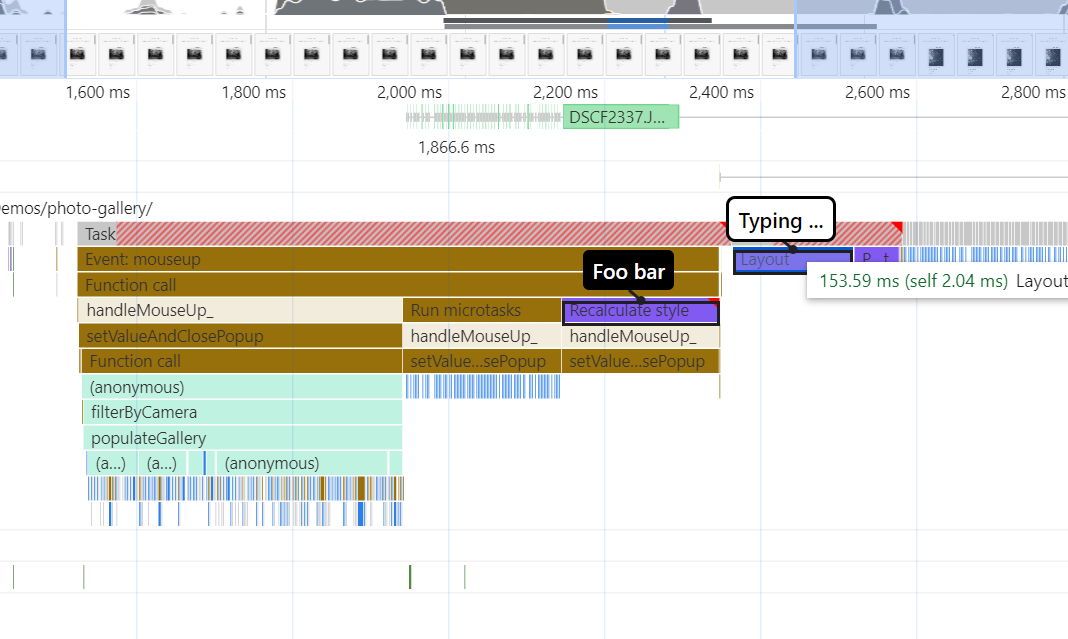
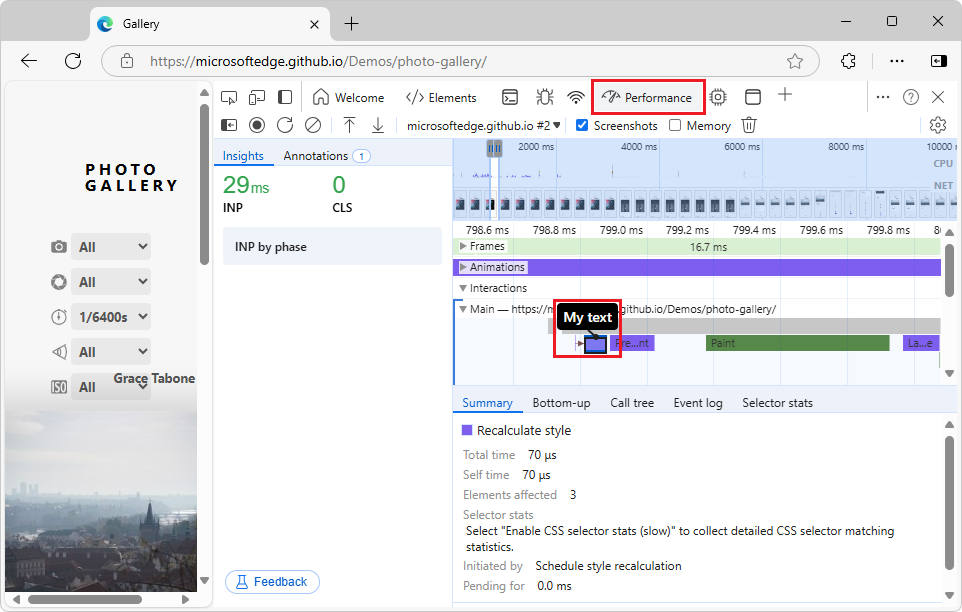
incorp rvw cmts

diff --git a/microsoft-edge/devtools-guide-chromium/experimental-features/index.md b/microsoft-edge/devtools-guide-chromium/experimental-features/index.md
@@ -64,7 +64,6 @@ The following experimental features are turned on by default. You can use these 
 * [Show issues in Elements](#show-issues-in-elements)
 * [Open source files in Visual Studio Code](#open-source-files-in-visual-studio-code)
 <!-- Deprecate CSS <length> authoring tool in the Styles tab - non-Edge -->
-<!-- Floating entry points for the AI assistance panel - non-Edge -->
 
 **Turned on by default in Microsoft Edge Stable 131:**
 * [Redesign of the filter bar in the Network panel](#redesign-of-the-filter-bar-in-the-network-panel)
@@ -76,7 +75,6 @@ The following experimental features are turned on by default. You can use these 
 * [Show issues in Elements](#show-issues-in-elements)
 * [Open source files in Visual Studio Code](#open-source-files-in-visual-studio-code)
 <!-- Deprecate CSS <length> authoring tool in the Styles tab - non-Edge -->
-<!-- Floating entry points for the AI assistance panel - non-Edge -->
 
 
 <!-- ====================================================================== -->
@@ -334,6 +332,7 @@ Status:
 <!-- ====================================================================== -->
 ## Deprecate CSS \<length\> authoring tool in the Styles tab
 <!-- checkbox has no "(?)" link pointing to this anchor wording -->
+<!-- todo: delete section if/when checkbox removed -->
 
 Not applicable for Microsoft Edge.  Selecting or clearing this checkbox has no effect.
 
@@ -500,9 +499,9 @@ Status:
 
 _new as of Microsoft Edge Canary 129_
 
-Annotations in the **Performance** tool allow you to double-click on any event that's displayed in the main area of a performance recording, and then add a custom label on (above) that event.
+Annotations in the **Performance** tool allow you to double-click any event that's displayed in the main area of a performance recording, and then add a custom label on (above) that event:
 
-<!-- ![An annotation in the Performance tool](./index-images/performance-panel-enable-annotations.png) -->
+![An annotation on an event in the Performance tool](./index-images/performance-panel-enable-annotations.png)
 
 See also:
 * [Introduction to the Performance tool](../evaluate-performance/index.md)
@@ -580,9 +579,8 @@ Status:
 
 
 <!-- ====================================================================== -->
-## Floating entry points for the AI assistance panel
-
-In Microsoft Edge, this checkbox has no effect.<!-- non-Edge -->
+<!-- ## Floating entry points for the AI assistance panel -->
+<!-- non-Edge; checkbox has no effect, being removed -->
 
 
 <!-- ====================================================================== -->
@@ -624,12 +622,8 @@ Status:
 
 _new as of Microsoft Edge Canary 133_
 
-In the **Performance** tool, adds a **Switch to an alternative timeline navigation** control inside the **Help/ Keyboard shortcuts** popup.  The switch lets you choose how the main chart reacts to mouse wheel events:
-* The mouse wheel zooms the chart in and out.
-* The mouse wheel pans the chart left and right.
-<!-- todo: when able to access UI, update desc & png -->
-
-<!-- ![Alternative timeline navigation option](./index-images/alt-timeline-nav.png) -->
+In the **Performance** tool, adds a **Switch to an alternative timeline navigation** control inside the **Help/ Keyboard shortcuts** popup.
+<!-- todo: when access UI, update desc -->
 
 See also: 
 * [Introduction to the Performance tool](../evaluate-performance/index.md)
